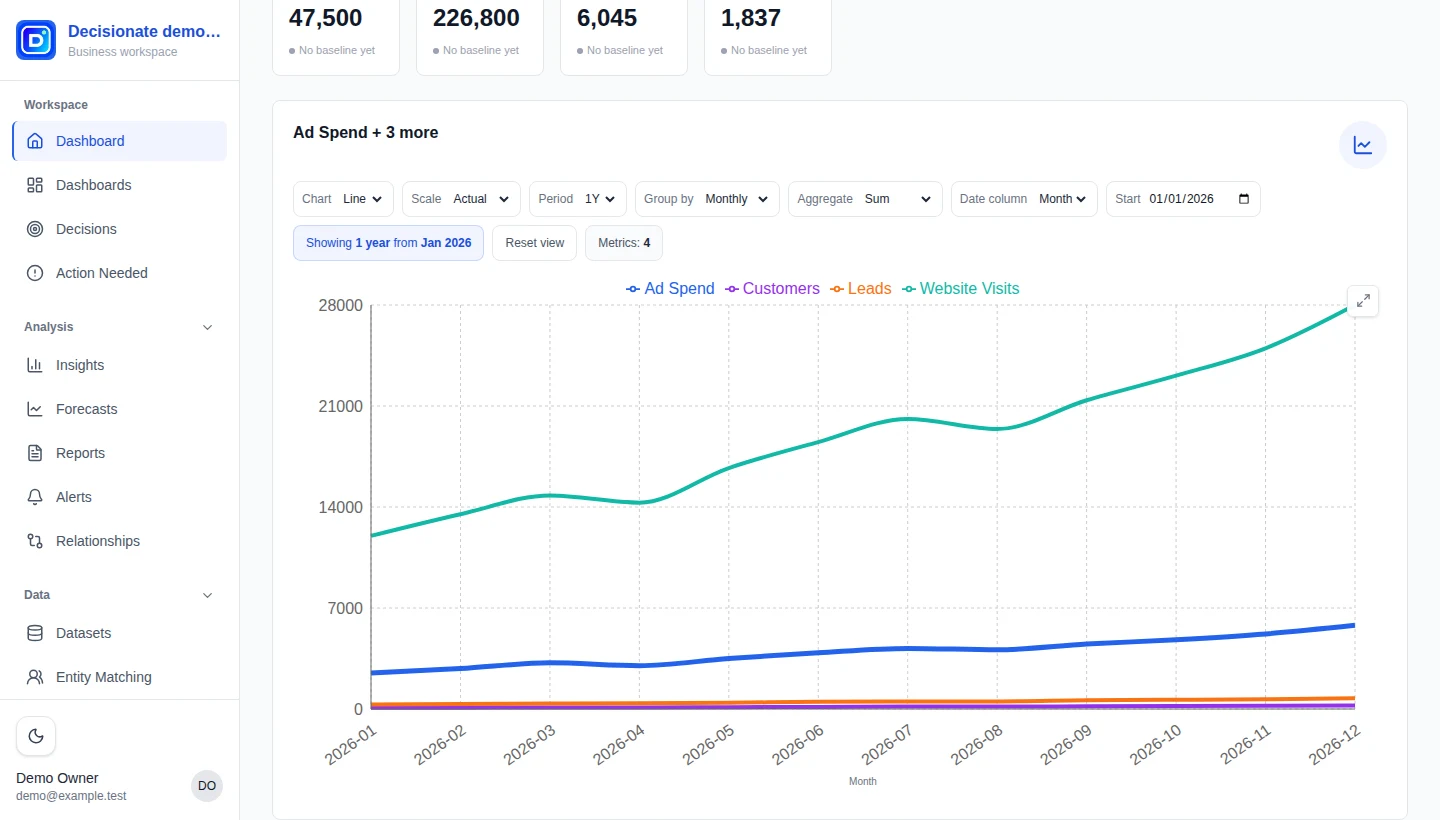
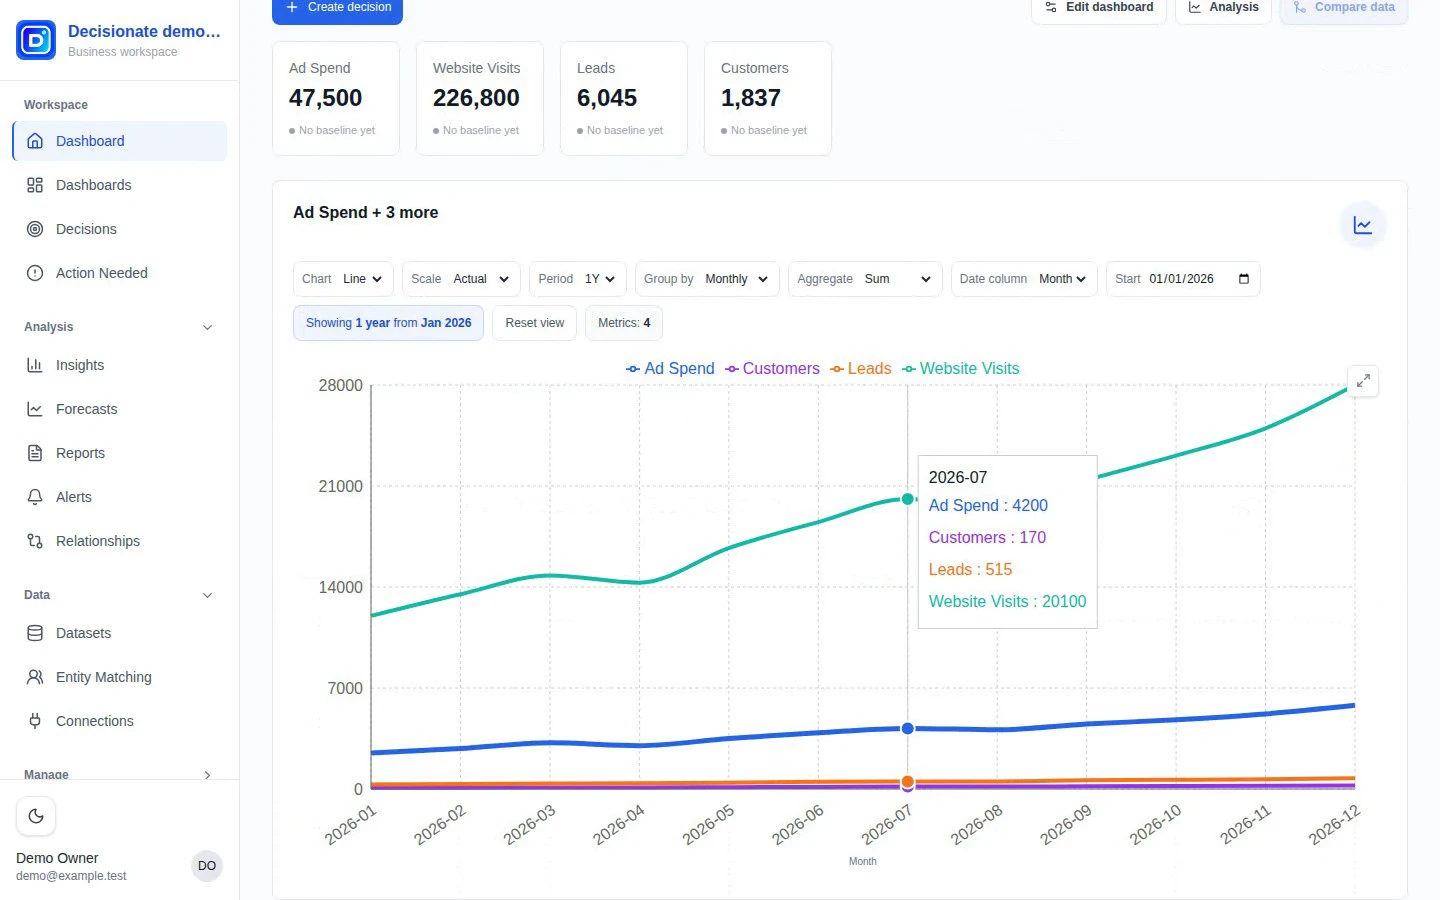
Align landing hero edges and restore trial note below buttons

diff --git a/apps/web/components/landing/landing.css b/apps/web/components/landing/landing.css
@@ -263,7 +263,6 @@
   max-width: 100%;
   max-height: 100%;
   aspect-ratio: 8 / 5;
-  /* The shorter poster must share the video's bottom edge, not its center. */
   object-position: center bottom;
 }
 .landing-product-video::cue {
@@ -286,7 +285,7 @@
     align-self: stretch;
   }
   .landing-hero-message {
-    margin-block: auto;
+    margin-block: 0;
   }
   .landing-hero-actions {
     align-items: flex-end;
@@ -294,7 +293,15 @@
     flex-shrink: 0;
   }
   .landing-hero-cta {
-    margin-top: 0;
+    position: relative;
+    margin-top: auto;
+  }
+  /* Leave the reassurance below the shared button/video baseline. */
+  .landing-hero-note {
+    position: absolute;
+    top: calc(100% + 8px);
+    left: 0;
+    width: 100%;
   }
   .landing-demo-frame {
     justify-content: flex-end;
@@ -337,6 +344,9 @@
     font-size: 16px;
     line-height: 24px;
   }
+}
+
+@media (min-width: 1280px) {
   .landing-hero-team {
     display: block;
   }
@@ -484,7 +494,7 @@
     gap: 8px;
   }
   .landing-hero-cta {
-    margin-top: 0;
+    margin-top: auto;
   }
   .landing-hero-actions .landing-button {
     padding-inline: 12px;
@@ -503,7 +513,7 @@
 }
 
 /* Keep the whole video visible on narrow landscape screens. */
-@media (max-height: 600px) and (min-width: 541px) and (max-width: 767px), (max-height: 360px) and (min-width: 541px) and (max-width: 1023px) {
+@media (max-height: 600px) and (min-width: 541px) and (max-width: 819px), (max-height: 360px) and (min-width: 541px) and (max-width: 1023px) {
   .landing-hero-copy {
     display: none;
   }
@@ -540,7 +550,7 @@
   }
 }
 
-@media (min-width: 1200px) and (min-height: 450px) and (max-height: 600px) {
+@media (min-width: 1280px) and (min-height: 450px) and (max-height: 600px) {
   .landing-hero-team {
     display: block;
   }

diff --git a/apps/web/components/landing/hero.tsx b/apps/web/components/landing/hero.tsx
@@ -48,9 +48,6 @@ export function LandingHero() {
               </p>
             </div>
             <div className="landing-hero-cta">
-              <p className="landing-hero-note text-xs leading-4 text-neutral-500">
-                {t("No credit card required.")}
-              </p>
               <div className="landing-hero-actions flex flex-wrap items-end gap-3">
                 <Link
                   href="/sign-up"
@@ -78,6 +75,9 @@ export function LandingHero() {
                   <ArrowRight size={16} aria-hidden="true" className="hidden sm:block" />
                 </Link>
               </div>
+              <p className="landing-hero-note text-xs leading-4 text-neutral-500">
+                {t("No credit card required.")}
+              </p>
             </div>
           </div>
         </LandingProductDemo>
